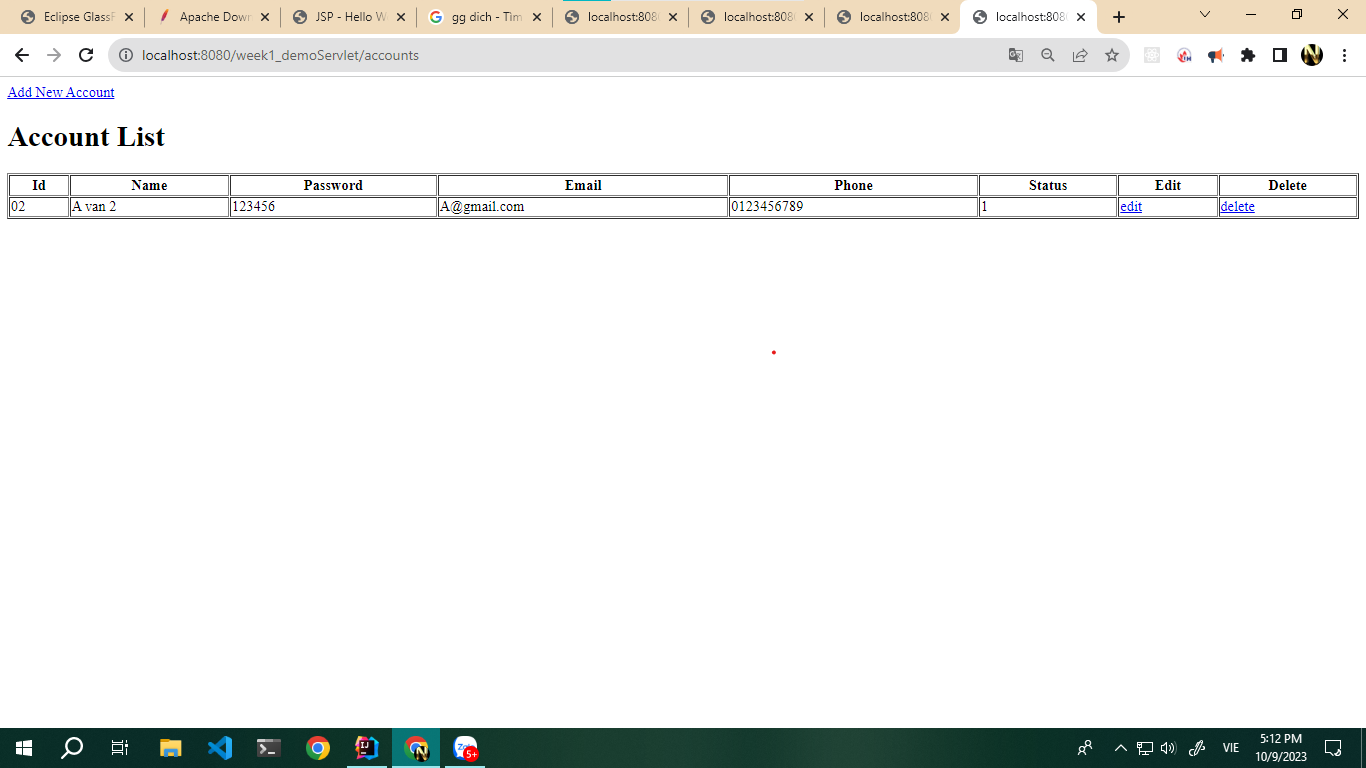
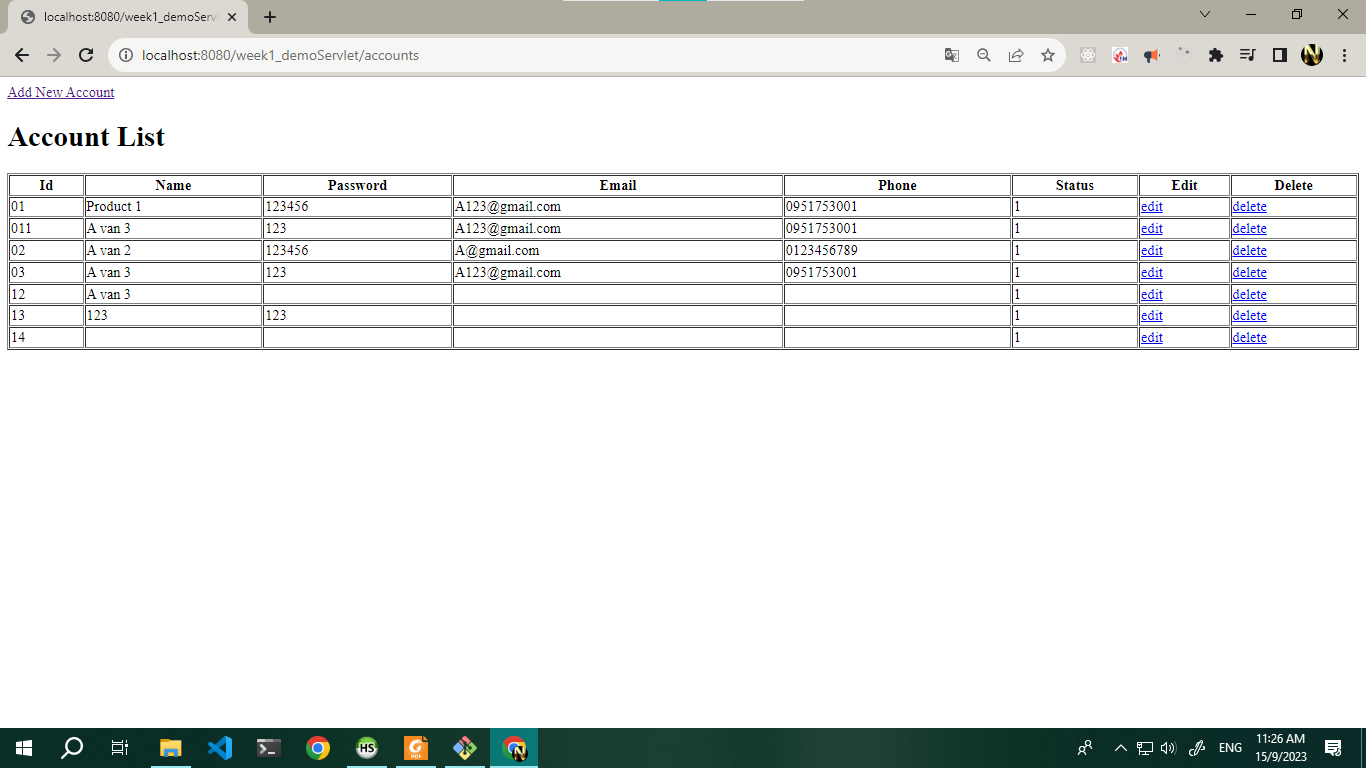
add web Insert accout -- Err lưu  xong lỗi khong quay lại duoc trang saveAccout

diff --git a/week1_demoServlet/src/main/webapp/index.html b/week1_demoServlet/src/main/webapp/index.html
@@ -1,0 +1,32 @@
+<!DOCTYPE html>
+<html>
+<head>
+    <meta charset="ISO-8859-1">
+    <title>Insert title here</title>
+</head>
+<body>
+
+<h1>Add New Account</h1>
+<form action="saveAccount" method="post">
+    <table>
+        <tr><td>ID:</td><td><input type="text" name="id"/></td></tr>
+        <tr><td>Name:</td><td><input type="text" name="name"/></td></tr>
+        <tr><td>Password:</td><td><input type="password" name="password"/></td></tr>
+        <tr><td>Email:</td><td><input type="email" name="email"/></td></tr>
+        <tr><td>Phone:</td><td><input type="phone" name="phone"/></td></tr>
+        <tr><td>Status:</td><td>
+            <select name="status" style="width:150px">
+                <option>1</option>
+                <option>0</option>
+                <option>-1</option>
+            </select>
+        </td></tr>
+        <tr><td colspan="2"><input type="submit" value="Save Account"/></td></tr>
+    </table>
+</form>
+
+<br/>
+<a href="accounts">view employees</a>
+
+</body>
+</html>

diff --git a/week1_demoServlet/src/main/java/vn/edu/iuh/fit/week1_demoservlet/controllers/AccountSaveControl.java b/week1_demoServlet/src/main/java/vn/edu/iuh/fit/week1_demoservlet/controllers/AccountSaveControl.java
@@ -5,19 +5,53 @@ import jakarta.servlet.annotation.WebServlet;
 import jakarta.servlet.http.HttpServlet;
 import jakarta.servlet.http.HttpServletRequest;
 import jakarta.servlet.http.HttpServletResponse;
+import vn.edu.iuh.fit.week1_demoservlet.models.Account;
 import vn.edu.iuh.fit.week1_demoservlet.sevice.impl.AccountSeviceImpl;
 
 import java.io.IOException;
+import java.io.PrintStream;
+import java.io.PrintWriter;
 
 @WebServlet(urlPatterns = "/saveAccount")
 public class AccountSaveControl extends HttpServlet {
 
-    private AccountSeviceImpl accountSevice;
+    private AccountSeviceImpl accountSevice = new AccountSeviceImpl();
+    private PrintStream err;
 
     @Override
     protected void doGet(HttpServletRequest req, HttpServletResponse resp) throws ServletException, IOException {
         super.doGet(req, resp);
+    }
 
+    @Override
+    protected void doPost(HttpServletRequest req, HttpServletResponse res) throws ServletException, IOException {
+        super.doPost(req, res);
+        System.out.println("  1  ");
+        res.setContentType("text/html");
+        PrintWriter out = res.getWriter();
+
+
+        String account_id = req.getParameter("id");
+        String name = req.getParameter("name");
+        String password = req.getParameter("password");
+        String email = req.getParameter("email");
+        String phone = req.getParameter("phone");
+        int status = Integer.parseInt(req.getParameter("status"));
+
+        Account acc = new Account(account_id, name, password, email, phone, status);
+        System.out.println(acc.toString());
+        try {
+            accountSevice.insert(acc);
+            out.print("<p>Record saved successfully!</p>");
+            req.getRequestDispatcher("index.html").include(req,res);
+        } catch (Exception e) {
+            out.println("Sorry! unable to save record");
+            err.println("controll - Save");
+            System.err.println(e);
+
+        }
+
+        out.close();
 
     }
 }

diff --git a/week1_demoServlet/README.md b/week1_demoServlet/README.md
@@ -11,3 +11,6 @@
 
 ## Ảnh minh họa data web servlet
 ![...](./images/img_data_web_account.png)
+
+## Ảnh minh họa web save account
+![...](./images/img_data_web_account_insert.png)
